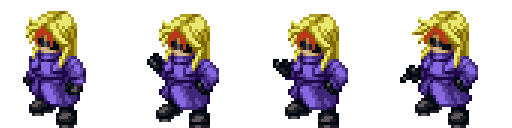
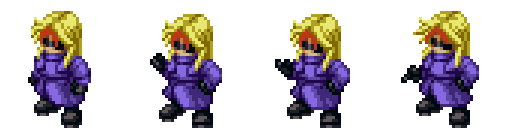
add idle frame loop

diff --git a/client/src/entities/Mercenary.ts b/client/src/entities/Mercenary.ts
@@ -11,6 +11,15 @@ import { getIsoFacingFromScreenDelta } from "@/math/characterDirection";
 
 const SPHERE_RADIUS = 12;
 const MOVE_DURATION_PER_TILE_MS = 180;
+/**
+ * Shifts the whole token (sprite + shadow together, via syncPosition)
+ * slightly toward the tile's back edge in screen space. Negative =
+ * up/back. This moves the container, not just the sprite — a
+ * sprite-only offset would separate the character from its shadow
+ * and read as hovering, which is exactly what this avoids. Tune this
+ * value directly; it's a visual judgment call, not a derived number.
+ */
+const STANDING_POSITION_Y_OFFSET = -6;
 
 /**
  * Animated hunter token. Visual only — grid position lives in MercenaryState.
@@ -190,7 +199,9 @@ export class Mercenary {
 		// at non-integer camera zoom) otherwise shimmer/jitter visibly as
 		// the fractional part crosses a pixel boundary each frame.
 		this.view.x = Math.round(this.currentScreenPos.x);
-		this.view.y = Math.round(this.currentScreenPos.y);
+		this.view.y = Math.round(
+			this.currentScreenPos.y + STANDING_POSITION_Y_OFFSET,
+		);
 	}
 
 	private drawShadow(): Graphics {

diff --git a/client/src/entities/CharacterSprite.ts b/client/src/entities/CharacterSprite.ts
@@ -50,7 +50,7 @@ export class CharacterSprite {
 		// Bottom-center anchor + y=0 is the entire positioning contract —
 		// this is what "feet at frame bottom" in the source art buys us.
 		this.sprite.anchor.set(0.5, 1);
-		this.sprite.y = 10;
+		this.sprite.y = 12;
 		this.view.addChild(this.sprite);
 		this.view.visible = false;
 	}
